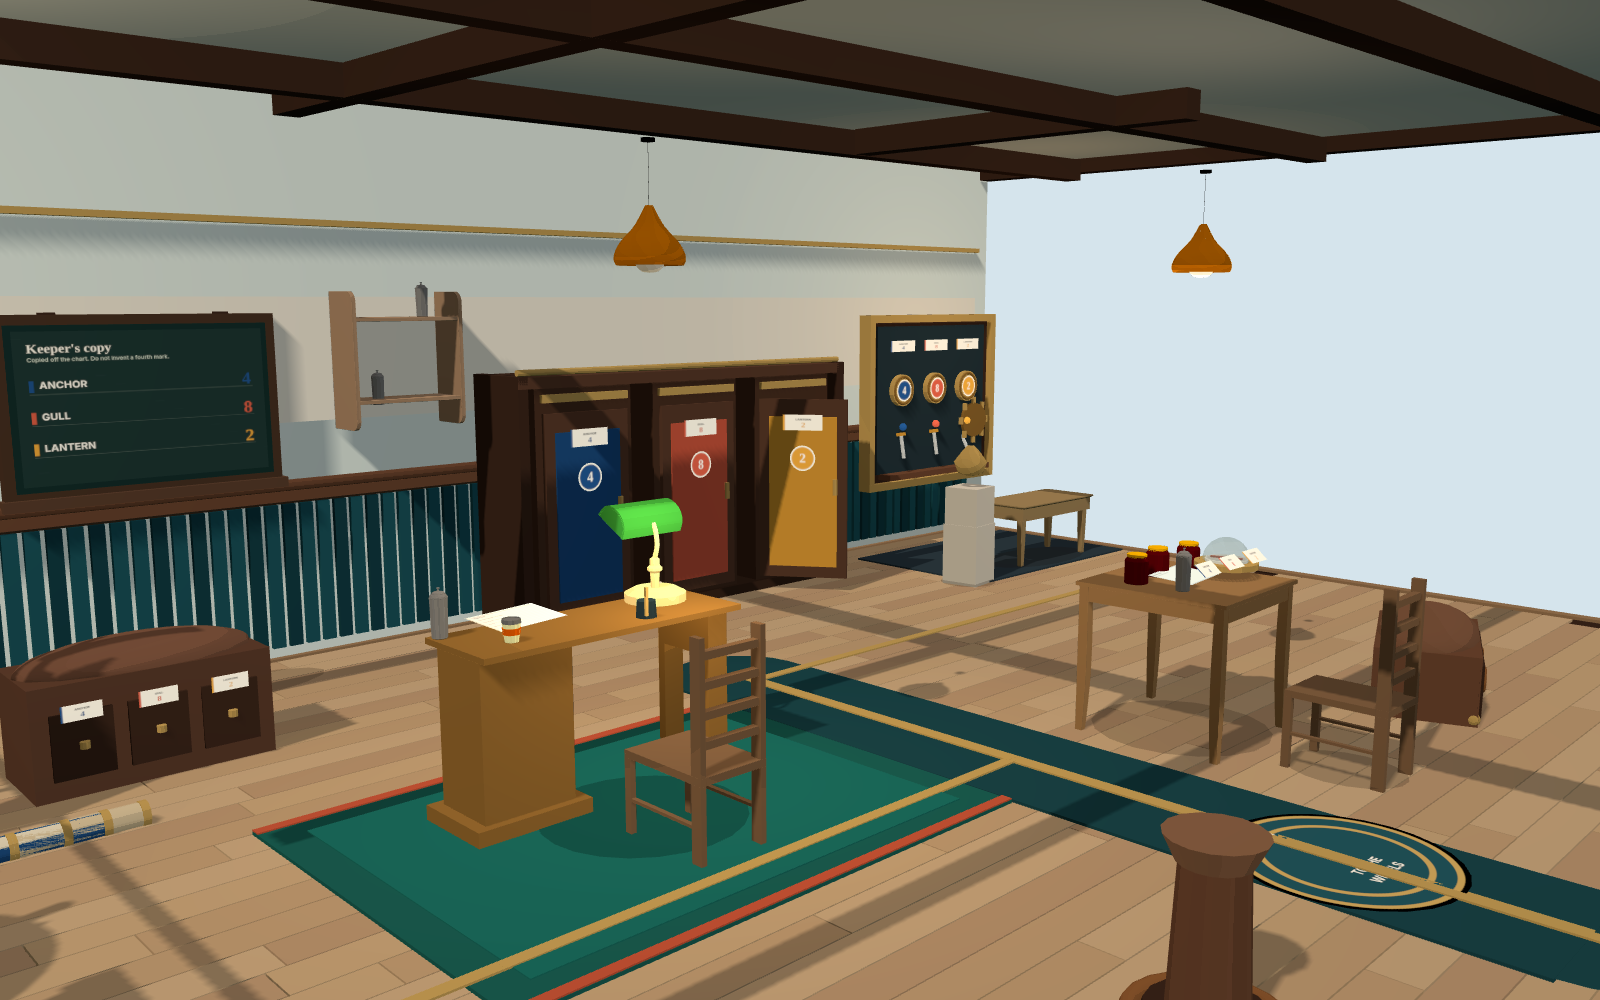
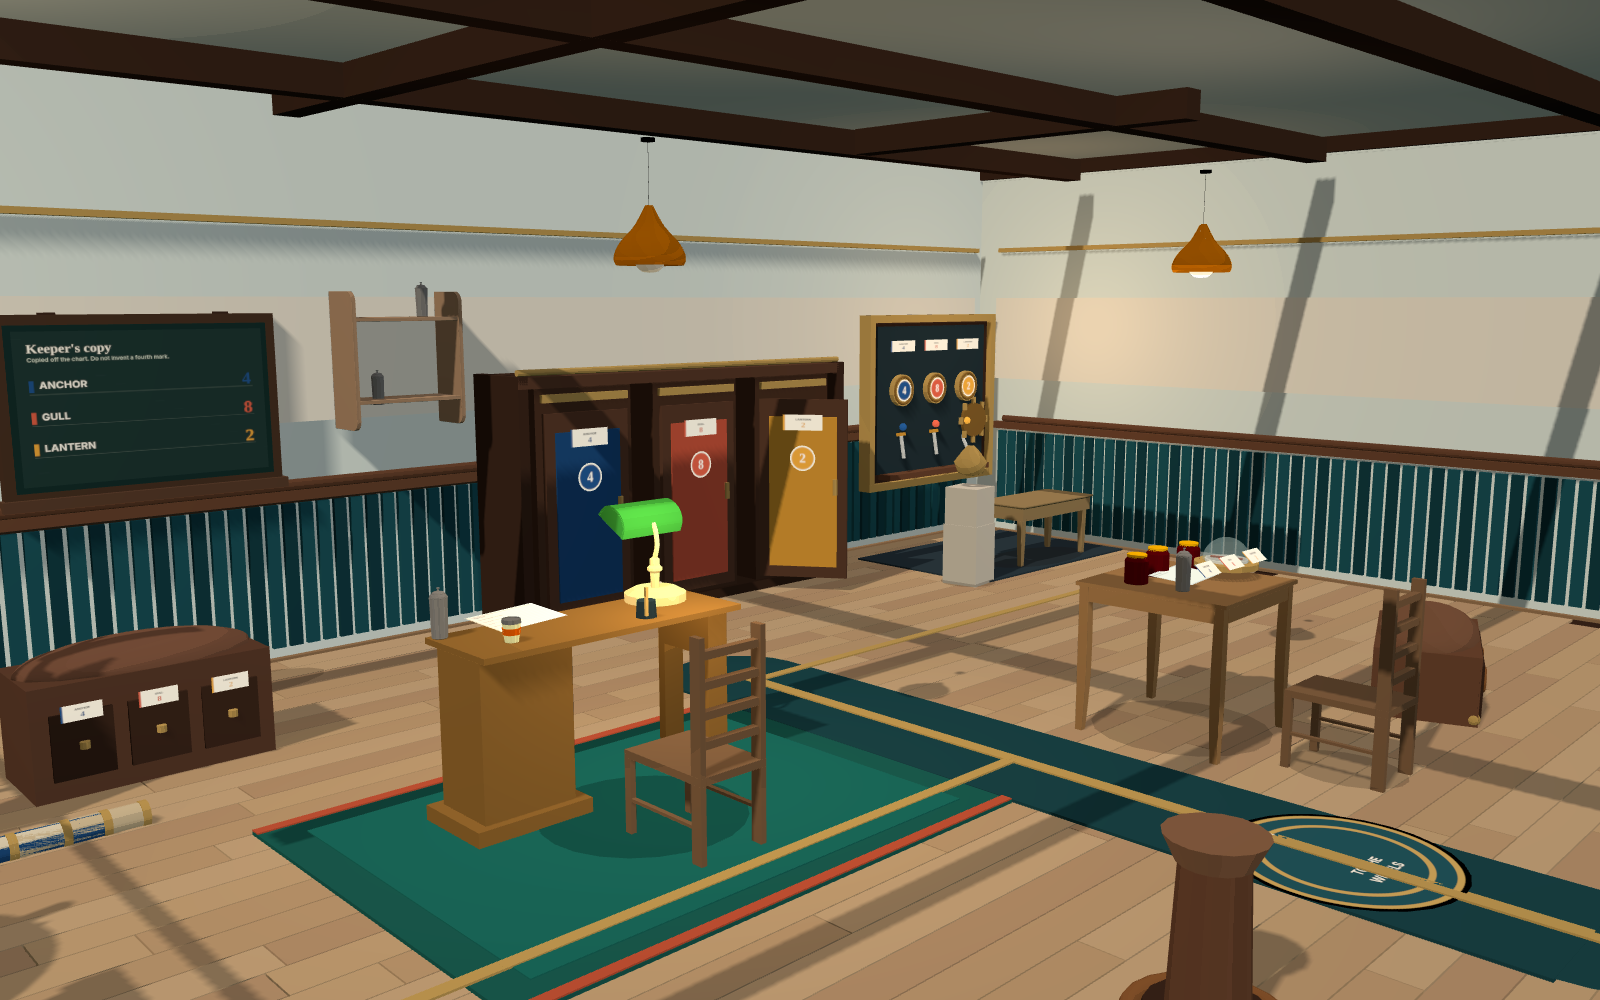
Close the Tide Lock right wall and fit the compass rose in frame.
The right wall now carries beadboard, a chair rail, and a picture rail, so default, corner, and unlit no longer open onto empty sky. The entry camera sits back just enough to hold the whole rose with the wheel panel and the entry chest.

Changed region(s): [[0.5938, 0.124, 1.0, 0.62]]

diff --git a/experiments/indoor-20261113/escape-room/escape-room.js b/experiments/indoor-20261113/escape-room/escape-room.js
@@ -219,6 +219,17 @@ function makeShell(layout) {
   addBox(g, W, 0.1, D, ceil, 0, H - 0.05, 0, { shadow: 'receive' });
   addBox(g, W + 0.06, 0.18, 0.14, deep, 0, H - 0.12, D / 2 - 0.04, { shadow: 'cast' });
   addBox(g, 0.14, 0.18, D + 0.04, deep, W / 2 - 0.04, H - 0.12, 0, { shadow: 'cast' });
+
+  const rightX = W / 2;
+  const rightWall = addBox(g, 0.14, H, D, upper, rightX, H / 2, 0, { shadow: 'receive' });
+  rightWall.name = 'right-wall';
+  const innerR = rightX - 0.09;
+  beadRun(g, 'z', innerR - 0.02, -D / 2 + 0.35, D / 2 - 0.35, 0.5, 0.82);
+  addBox(g, 0.06, 0.06, D - 0.4, oak, innerR - 0.02, 0.96, 0.1, { shadow: 'cast' });
+  addCyl(g, 0.028, 0.028, D - 0.6, oak, innerR - 0.035, 1.02, 0.1, 12, { rotX: Math.PI / 2, shadow: 'cast' });
+  addBox(g, 0.04, 0.035, D - 0.5, brassMat, innerR - 0.015, 2.48, 0.05);
+  addBox(g, 0.02, 0.7, D - 0.45, warm, innerR - 0.005, 1.72, 0.05, { shadow: 'receive' });
+  addBox(g, 0.16, H, 0.16, deep, rightX - 0.02, H / 2, D / 2 - 0.02, { shadow: 'cast' });
   const beamY = H - 0.22;
   for (const z of [-2.7, -0.7, 1.3]) {
     addBox(g, W - 0.5, 0.16, 0.14, deep, -0.1, beamY, z, { shadow: 'cast' });

diff --git a/experiments/indoor-20261113/escape-room/refs/QA.md b/experiments/indoor-20261113/escape-room/refs/QA.md
@@ -28,12 +28,21 @@ The shooter records console errors and network responses. It fails if a response
 
 What the frames are for:
 
-- Default: chart, wall slate, three cabinets, open lantern door, the full wheel panel, the clue table, the entry chest, and the floor path in one view.
+- Default: chart, wall slate, three cabinets, open lantern door, the full wheel panel, the clue table, the entry chest, the full compass rose, and the floor path in one view. The right edge is wall, not sky.
 - Corner: window desk, bench, and the long axis of the room.
 - Close: the chart type is large enough to read.
 - Unlit: the same default camera with lights ignored, so the palette has to carry the room.
 
 Findings from the rendered pass belong in the notes below this line once the shots exist.
+
+## Render notes, framing pass
+
+Shot again on 2026-11-13 after closing the right wall and reframing the entry camera. Same harness: headless Chrome, SwiftShader, 1600×1000, HUD hidden, `node shoot.mjs`. Zero console errors, zero failed responses, every request on `127.0.0.1:8813`. Default, corner, and close stayed on TOON. The fourth frame stayed on UNLIT (`MeshBasicMaterial`). Pixel samples along the right edge of default, corner, and unlit are plaster, oak, and beadboard. None are the sky clear color.
+
+- `toon_default`: the compass rose is fully in the lower left of the runner. The wheel panel (4, 8, 2, gear included), the cabinet bank, and the entry chest stay in frame. The right side is the new wall.
+- `toon_corner`: the former sky opening is beadboard and plaster. Slate text, cabinet doors, and all three wheels stay in view. The ceiling is still closed.
+- `toon_close`: unchanged. “TIDE LOCK”, Anchor 4, Gull 8, and Lantern 2 stay readable.
+- `unlit_default`: same camera as default. The right wall, rose, panel, and chest read from material color. No lighting model.
 
 ## Render notes, visual pass
 

diff --git a/experiments/indoor-20261113/escape-room/SPEC.md b/experiments/indoor-20261113/escape-room/SPEC.md
@@ -1,9 +1,9 @@
 # Tide Lock — brief
 
-Harbor cipher study, cutaway on +X and +Z. Back wall −Z, window wall −X.
+Harbor cipher study. Back wall −Z, window wall −X, right wall closed. The front (+Z) is the viewing opening.
 
 The puzzle is one combination told four ways: the easel chart, the keeper’s slate, the jar tags on the clue table, and the wheels on the mechanical panel. A tide staff on the window wall and the chart chest repeat the same three marks. Three cabinets are built into one oak bank. The lantern door is the one left open, with the key inside.
 
-Walk the runner and brass strip from the floor rose, past the investigation desk, to the panel bench. A side branch reaches the window desk. Chairs face the desks and the clue table. The lamp shade points toward the sitter. The easel canvas faces the room. The keeper’s copy is a slate hung on the back wall. The floor is a quiet oak board pattern. A plaster ceiling with hung beams closes the roof; the +X and +Z walls stay open as the cutaway.
+Walk the runner and brass strip from the floor rose, past the investigation desk, to the panel bench. A side branch reaches the window desk. Chairs face the desks and the clue table. The lamp shade points toward the sitter. The easel canvas faces the room. The keeper’s copy is a slate hung on the back wall. The floor is a quiet oak board pattern. A plaster ceiling with hung beams closes the roof. The right wall carries the same beadboard, chair rail, and picture rail as the back wall, so the frames do not open onto empty sky.
 
 See `layout.json` for poses, cameras, and the circulation polyline. `tests/check_layout.py` checks them.

diff --git a/experiments/indoor-20261113/escape-room/refs/GAP.md b/experiments/indoor-20261113/escape-room/refs/GAP.md
@@ -1,10 +1,15 @@
 # Gaps
 
+Framing pass after the third review:
+
+- The right wall is closed: plaster, beadboard, chair rail, and picture rail, with a timber jamb on the open front corner. Default, corner, and unlit no longer open onto empty sky. The roof stays shut.
+- The entry camera is pulled back and tilted down just enough that the whole compass rose sits in the frame with the wheel panel and the entry chest.
+
 Visual pass after the second review:
 
 - Floor boards use a narrow oak range and hairline gaps, so the staggered pattern sits under the runner, desks, and cabinets instead of reading as deck stripes.
-- A plaster ceiling closes the roof. Beams hang under it, and a timber fascia finishes the open +X and +Z edges. Sky still shows through the cutaway wall.
-- The entry camera includes the wheel panel, the cabinet bank, the clue table, and the entry chest. The compass rose is still clipped at the bottom edge of that frame.
+- A plaster ceiling closes the roof. Beams hang under it, and a timber fascia finishes the open front edge.
+- The entry camera includes the wheel panel, the cabinet bank, the clue table, the entry chest, and the full compass rose.
 - The keeper’s copy is a wall-hung slate: dark board, oak frame, chalk rail. The brown floor-stand GLB stays in the layout for the facing test and is hidden at runtime, because its silhouette is a wooden stand with a printed sheet.
 
 Refinement after the first review:
